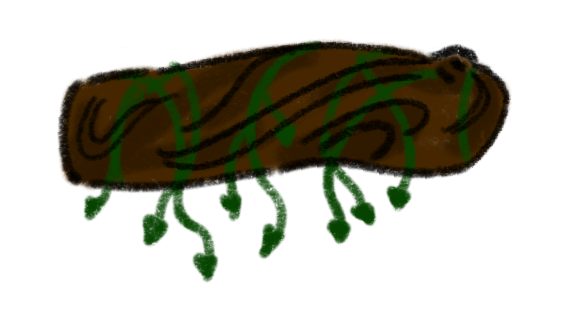
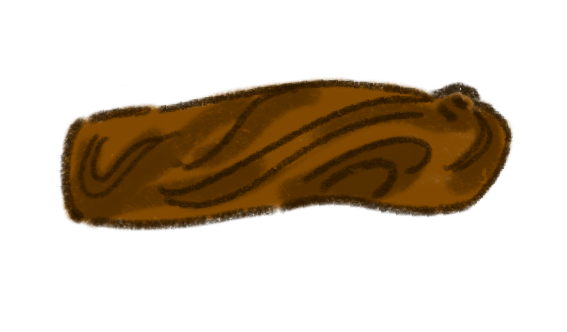
use log for platforms

diff --git a/sketch.js b/sketch.js
@@ -107,11 +107,12 @@ class Doodle {
 }
 
 class Platforms {
-	static WIDTH = 100;
-	static HEIGHT = 20;
+	static WIDTH = 120;
+	static HEIGHT = 60;
 
-	constructor(monsters) {
+	constructor(img, monsters) {
 		this.monsters = monsters;
+		this.img = img;
 	}
 
 	_spaceBetween() {
@@ -175,11 +176,14 @@ class Platforms {
 
 	draw() {
 		this.positions.forEach((pos) => {
-			// set the color of the outline for the shape to be drawn
-			stroke("gray");
-			// set fill color
-			fill("lightgreen");
-			rect(pos.x, pos.y, pos.w, pos.h, pos.w / 10);
+			imageMode(CORNERS);
+			image(
+				this.img,
+				pos.x,
+				pos.y,
+				pos.x + pos.w,
+				pos.y + pos.h
+			);
 		});
 	}
 }
@@ -267,7 +271,7 @@ class Game {
 		this.speed = 30;
 		this.doodle = new Doodle(images.doodle);
 		this.monsters = new Monsters(images.monsters);
-		this.platforms = new Platforms(this.monsters);
+		this.platforms = new Platforms(images.log, this.monsters);
 		this.state = Game.STATE.MENU;
 	}
 
